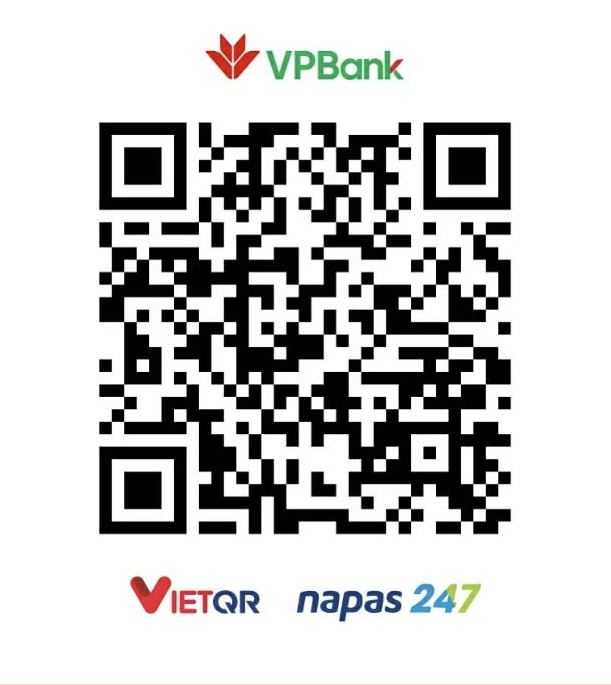
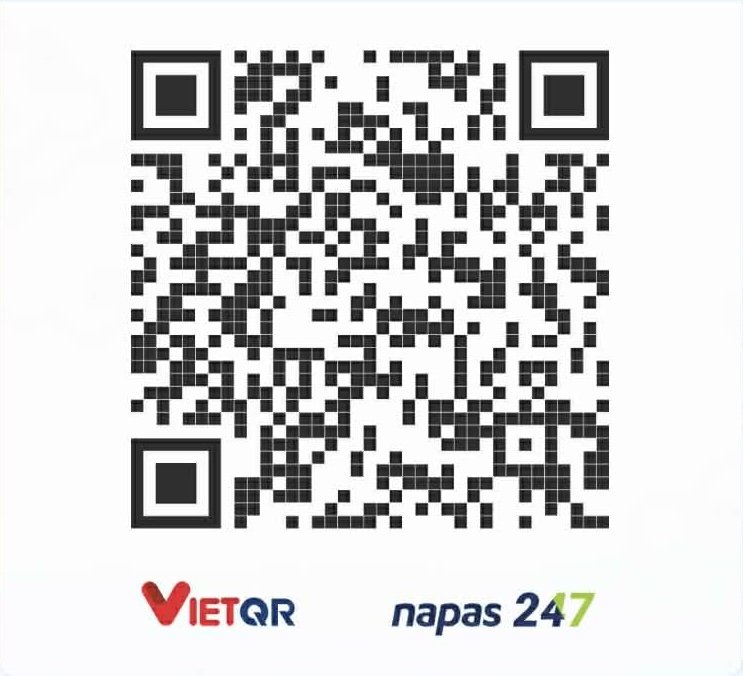
Update groom data

diff --git a/index.html b/index.html
@@ -2339,9 +2339,11 @@
 
     #HEADLINE14,
     #HEADLINE58,
-    #HEADLINE64,
     #HEADLINE68 {
       width: 275px;
+    }
+    #HEADLINE64 {
+      width: 350px;
     }
 
     #HEADLINE14 {
@@ -2715,7 +2717,7 @@
 
     #HEADLINE64 {
       top: 873.8px;
-      left: 72.5px;
+      left: 36.5px;
     }
 
     #HEADLINE65,
@@ -4312,11 +4314,11 @@
           <p class='ladi-headline ladi-transition'>30<br></p>
         </div>
         <div id="HEADLINE58" class='ladi-element'>
-          <p class='ladi-headline ladi-transition'>tiệc thân mật nhà gái được tổ chức
-            vào lúc 17 giờ 00 phút</p>
+          <p class='ladi-headline ladi-transition'>tiệc thân mật nhà trai được tổ chức
+            vào lúc 7 giờ 00 phút</p>
         </div>
         <div id="HEADLINE59" class='ladi-element'>
-          <p class='ladi-headline ladi-transition'>(Tức ngày 09 tháng 11 năm Ất Tỵ)<br></p>
+          <p class='ladi-headline ladi-transition'>(Tức ngày 10 tháng 11 năm Ất Tỵ)<br></p>
         </div>
         <div id="GROUP25" class='ladi-element'>
           <div class='ladi-group'>
@@ -4331,10 +4333,10 @@
               </div>
             </div>
             <div id="HEADLINE60" class='ladi-element'>
-              <p class='ladi-headline ladi-transition'>chủ nhật</p>
+              <p class='ladi-headline ladi-transition'>Thứ hai</p>
             </div>
             <div id="HEADLINE61" class='ladi-element'>
-              <p class='ladi-headline ladi-transition'>28</p>
+              <p class='ladi-headline ladi-transition'>29</p>
             </div>
             <div id="HEADLINE62" class='ladi-element'>
               <p class='ladi-headline ladi-transition'>tháng<br>12<br></p>
@@ -4345,12 +4347,12 @@
           </div>
         </div>
         <div id="HEADLINE64" class='ladi-element'>
-          <p class='ladi-headline ladi-transition'>tại tư gia</p>
+          <p class='ladi-headline ladi-transition'>tại Nhà văn hoá Trung tâm xã Bình Minh</p>
         </div>
         <div id="HEADLINE65" class='ladi-element'>
-          <p class='ladi-headline ladi-transition'>Xóm 20, Xã Triệu Việt Vương, Tỉnh Hưng Yên<br>
+          <p class='ladi-headline ladi-transition'>TT KHOÁI CHÂU, Xã Khoái Châu, Tỉnh Hưng Yên<br>
           </p>
-        </div><a href="https://maps.app.goo.gl/KZbgpc2dF8JoTMhF8" target="_blank" id="GROUP7" class='ladi-element'>
+        </div><a href="https://maps.app.goo.gl/JmArBU2Fmw9yiU589" target="_blank" id="GROUP7" class='ladi-element'>
           <div class='ladi-group'>
             <div id="HEADLINE66" class='ladi-element'>
               <p class='ladi-headline ladi-transition'>chỉ đường</p>
@@ -4731,16 +4733,16 @@
               </div>
             </div>
             <div id="HEADLINE93" class='ladi-element'>
-              <p class='ladi-headline ladi-transition'>Cô dâu<br></p>
+              <p class='ladi-headline ladi-transition'>Chú rể<br></p>
             </div>
             <div id="HEADLINE95" class='ladi-element'>
-              <p class='ladi-headline ladi-transition'>Phạm Thị Thanh Thuỷ</p>
+              <p class='ladi-headline ladi-transition'>Phạm Huy Hoà</p>
             </div>
             <div id="HEADLINE97" class='ladi-element'>
-              <p class='ladi-headline ladi-transition'>VPBank<br></p>
+              <p class='ladi-headline ladi-transition'>MBBank<br></p>
             </div>
             <div id="HEADLINE98" class='ladi-element'>
-              <p class='ladi-headline ladi-transition'>6924022017<br></p>
+              <p class='ladi-headline ladi-transition'>8618612302000<br></p>
             </div>
           </div>
         </div>
